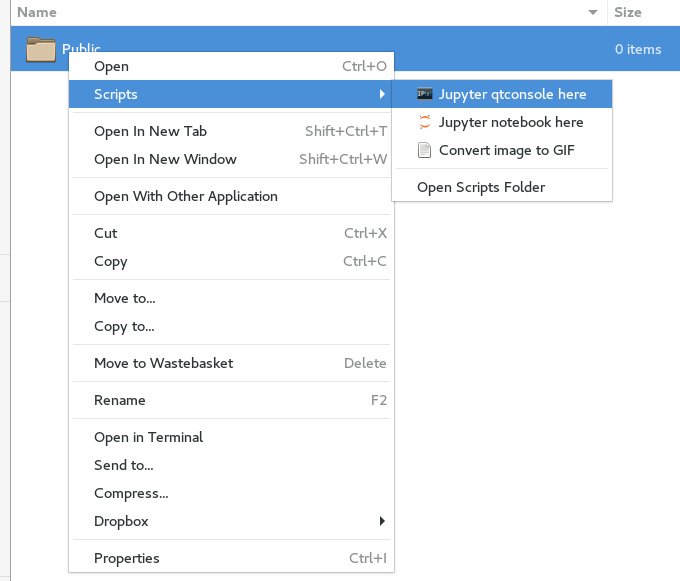
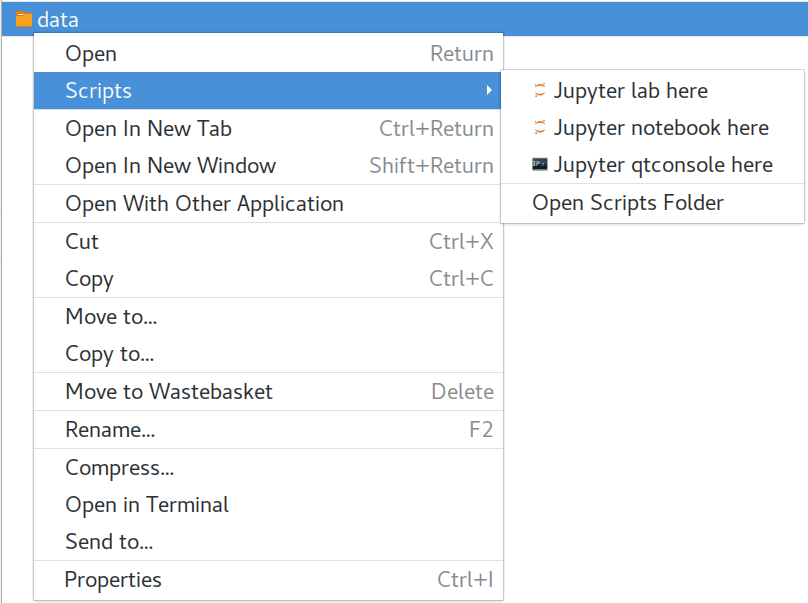
Update documentation and images following the addition of the jupyter lab entry.

diff --git a/README.rst b/README.rst
@@ -18,10 +18,9 @@ Microsoft Windows
 
    Jupyter context menu entries in windows.
 
-In addition to starting the QtConsole or the Jupyter Notebook server and
-launching the default browser, in Microsoft Windows the process runs
-from a terminal. Closing the terminal closes the QtConsole or the
-Jupyter server.
+In addition to starting the QtConsole, the Jupyter Notebook or the Jupyter Lab, 
+and launching the default browser, in Microsoft Windows the process runs from 
+a terminal. Closing the terminal closes the QtConsole or the Jupyter server.
 
 GNOME
 ~~~~~
@@ -32,7 +31,7 @@ GNOME
    Jupyter context menu entries in gnome.
 
 When selecting multiple folders, one instance of Jupyter
-QtConsole/notebook opens in each of the selected folders. Selecting a
+QtConsole/notebook/lab opens in each of the selected folders. Selecting a
 file starts Jupyter in the file directory.
 
 Note that in GNOME the processes run in the background. As of Jupyter
